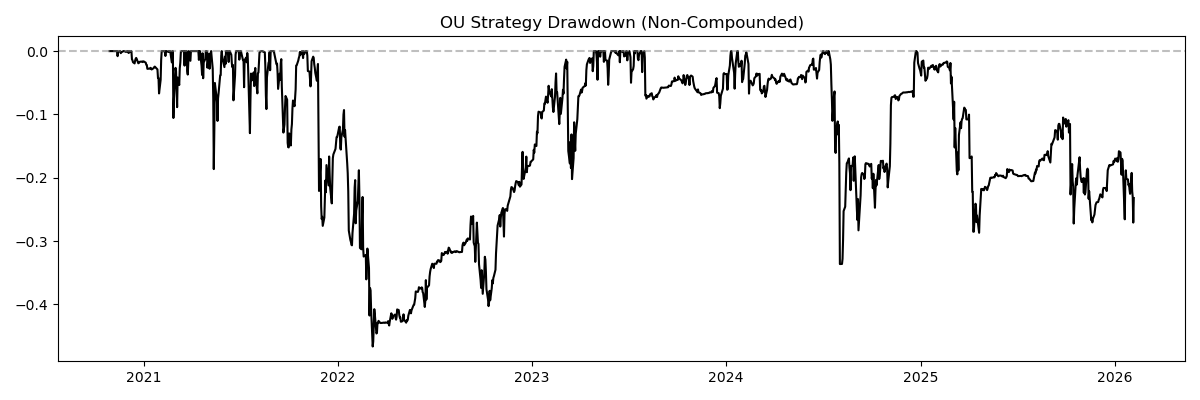
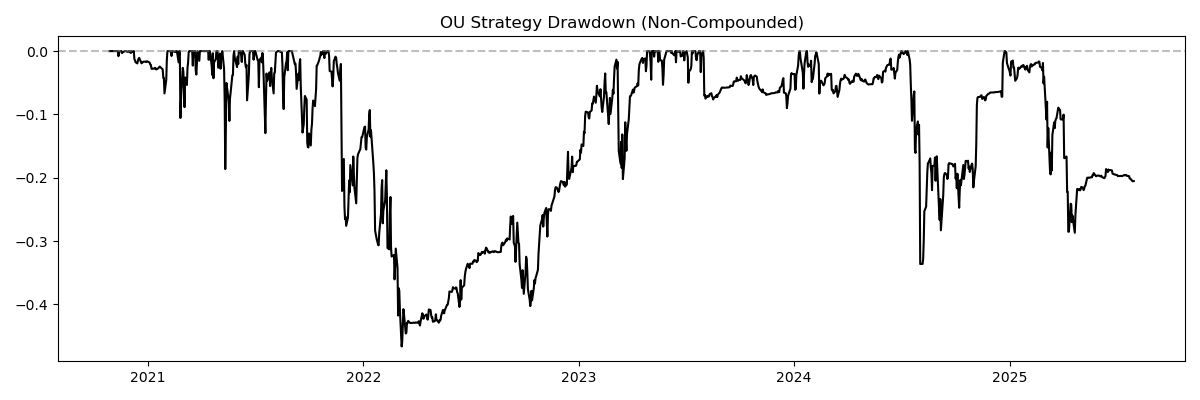
Add RNN results and update OU benchmark figures

diff --git a/src/run_ou_vix.py b/src/run_ou_vix.py
@@ -44,7 +44,7 @@ def run_ou_vix(
     vix_path: str = "data/VIX_History.csv",
     traded_ticker: str = "VXX",
     traded_start: str = "2020-05-01",
-    traded_end: str = "2026-02-07",
+    traded_end: str = "2025-07-31",
     dt: float = 1.0,
     window: int = 126,
     split_date: str = "2020-05-01",
@@ -113,7 +113,10 @@ def run_ou_vix(
         ],
         axis=1,
     ).dropna().sort_index()
-    trade_df = trade_df.loc[trade_df.index >= pd.to_datetime(traded_start)].copy()
+    trade_df = trade_df.loc[
+        (trade_df.index >= pd.to_datetime(traded_start))
+        & (trade_df.index <= pd.to_datetime(traded_end))
+    ].copy()
 
     if trade_df.empty:
         raise ValueError("No aligned tradable sample after merging VIX history with traded asset.")

diff --git a/run_lstm_benchmark.py b/run_lstm_benchmark.py
@@ -239,6 +239,8 @@ def main() -> None:
         outpath="figures/rnn_ou_sp500_drawdown.png",
         title="Drawdown Comparison: LSTM vs GRU vs OU Strategy vs S&P 500",
     )
+    
+    
 
     print("\n=== LSTM Strategy Diagnostics ===")
     print(f"Sample: {lstm_wealth.index.min().date()} -> {lstm_wealth.index.max().date()}")
